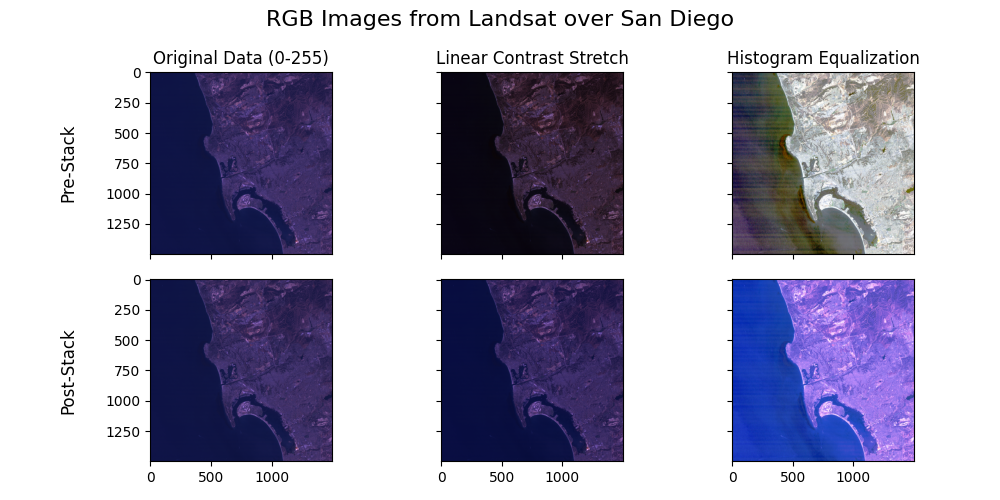
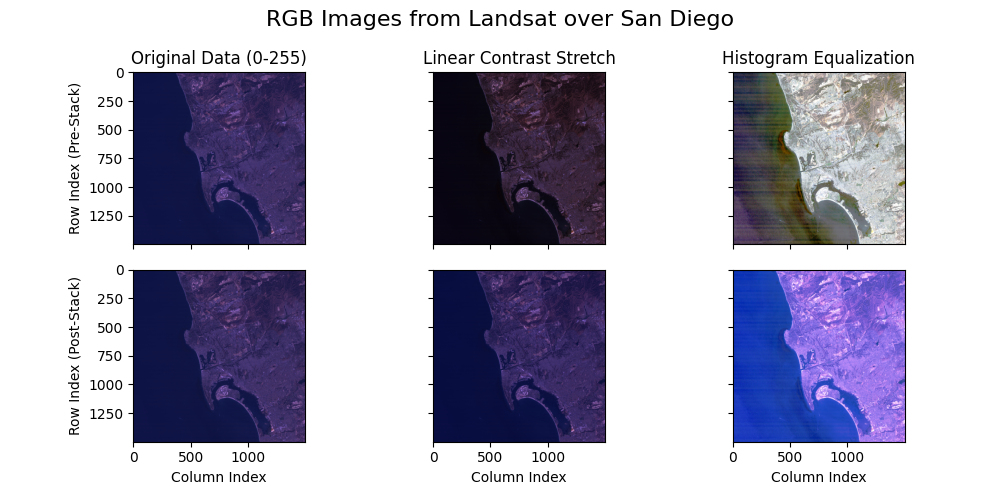
Created figures to show different processing filters; Cleaned code; Question 5 completed.

diff --git a/HW 4/singleton_hw4.py b/HW 4/singleton_hw4.py
@@ -72,7 +72,7 @@ bands = np.array([extract_raw(fname=f'band{i + 1}c.raw') for i in range(7)])
 # --- Question 2 ---
 
 # --- Part I ---
-fig, ax = plt.subplots(1, 3, figsize=(10, 5), constrained_layout=True)
+fig, ax = plt.subplots(1, 3, figsize=(10, 5), sharey=True, constrained_layout=True)
 fig.suptitle('Thermal Infrared Images from Landsat over San Diego', fontsize=16, y=0.92)
 
 for i, func in zip(range(3), [lambda x: x, hist_linear, hist_equalize]):
@@ -84,7 +84,13 @@ ax[0].set_title('Original Data (0-255)')
 ax[1].set_title('Linear Contrast Stretch')
 ax[2].set_title('Histogram Equalization')
 
-ax_cbar = fig.add_axes([0.25, 0.08, 0.50, 0.05])
+# Setting Labels
+ax[0].set_ylabel('Row Index')
+ax[0].set_xlabel('Column Index')
+ax[1].set_xlabel('Column Index')
+ax[2].set_xlabel('Column Index')
+
+ax_cbar = fig.add_axes([0.25, 0.05, 0.50, 0.05])
 plt.colorbar(im, orientation='horizontal', cax=ax_cbar)
 
 plt.savefig('Enhanced_Images')
@@ -105,7 +111,9 @@ ax[1].set_title('Linear Contrast Stretch')
 ax[2].set_title('Histogram Equalization')
 
 ax[0].set_ylabel('Counts')
+ax[0].set_xlabel('Color Value')
 ax[1].set_xlabel('Color Value')
+ax[2].set_xlabel('Color Value')
 
 plt.tight_layout()
 plt.savefig('Enhanced_Image_Histograms')
@@ -133,13 +141,17 @@ ax[0, 0].set_title('Original Data (0-255)')
 ax[0, 1].set_title('Linear Contrast Stretch')
 ax[0, 2].set_title('Histogram Equalization')
 
-ax[0, 0].set_ylabel('Pre-Stack', fontsize=12, labelpad=20)
-ax[1, 0].set_ylabel('Post-Stack', fontsize=12, labelpad=20)
+# Setting Labels
+ax[0, 0].set_ylabel('Row Index (Pre-Stack)')
+ax[1, 0].set_ylabel('Row Index (Post-Stack)')
+
+ax[1, 0].set_xlabel('Column Index')
+ax[1, 1].set_xlabel('Column Index')
+ax[1, 2].set_xlabel('Column Index')
 
 plt.tight_layout()
 plt.savefig('RGB_Enhanced_Images')
 plt.show()
-
 
 # --- Question 4 ---
 # Normalized Difference Vegetation Index
@@ -155,7 +167,66 @@ plt.imshow(NDVI)
 plt.title('Normalized Difference Vegetation Index over San Diego from Landsat', fontsize=16, y=1.02)
 plt.colorbar(fraction=0.046, pad=0.04)
 
+plt.ylabel('Row Index')
+plt.xlabel('Column Index')
+
 plt.savefig('NDVI')
 plt.show()
 
+
 # --- Question 5 ---
+def smoothing_kernel(img, wid=9):
+    """Smoothing filter"""
+    smooth_filter = np.ones((wid, wid), dtype=float)*1/wid**2
+    return scipy.signal.convolve2d(img, smooth_filter, mode='valid')
+
+
+def sharping_kernel(img):
+    """Sharpening filter"""
+    identity = np.identity(3)
+    lap_filter = [[1/9, 1/9, 1/9], [1/9, -20, 1/9], [1/9, 1/9, 1/9]]
+    return scipy.signal.convolve2d(img, identity - lap_filter, mode='valid')
+
+
+def illuminate_kernel(img):
+    """Sobel filter"""
+    x = [[47, 0, -47],
+         [162, 0, -162],
+         [47, 0, -47]]
+
+    y = [[47, 162, 47],
+         [0, 0, 0],
+         [-47, -162, -47]]
+
+    img_x = scipy.signal.convolve2d(img, x, mode='valid')
+    img_y = scipy.signal.convolve2d(img, y, mode='valid')
+
+    sobel_filter = (img_x**2 + img_y**2) ** 0.5
+    return sobel_filter
+
+
+fig, ax = plt.subplots(2, 2, figsize=(10, 10), sharex='all', sharey='all')
+plt.suptitle('Filtered Images over San Diego from Landsat - Band 1', fontsize=16)
+
+for i, func in zip(range(2), [lambda x: x, smoothing_kernel]):
+    ax[0, i].imshow(func(bands[0].astype(float)), cmap='gray')
+
+for i, func in zip(range(2), [sharping_kernel, illuminate_kernel]):
+    ax[1, i].imshow(func(bands[0].astype(float)), cmap='gray')
+
+# Setting Titles
+ax[0, 0].set_title('Original Data (0-255)')
+ax[0, 1].set_title('Smoothed Filter')
+ax[1, 0].set_title('Sharpened Filter')
+ax[1, 1].set_title('Sobel Filter')
+
+# Setting Labels
+ax[0, 0].set_ylabel('Row Index')
+ax[1, 0].set_ylabel('Row Index')
+
+ax[1, 0].set_xlabel('Column Index')
+ax[1, 1].set_xlabel('Column Index')
+
+plt.tight_layout()
+plt.savefig('Filtered_Images')
+plt.show()
